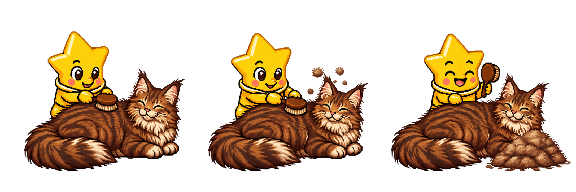
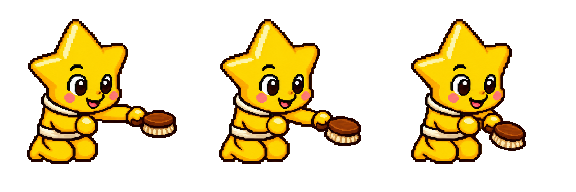
fix: クーンちゃん連作のアニメーションを調整

diff --git a/src/rendering/room.ts b/src/rendering/room.ts
@@ -626,6 +626,7 @@ function createSleeper(
   depthY: number,
   height: number,
   callbacks: RoomCallbacks,
+  breathing: "smooth" | "alternating" = "smooth",
 ): Sprite {
   texture.source.scaleMode = "nearest";
   const sleeper = new Sprite(texture);
@@ -643,7 +644,8 @@ function createSleeper(
   let elapsed = 0;
   app.ticker.add((ticker) => {
     elapsed += ticker.deltaMS;
-    const breath = Math.sin(elapsed / 620);
+    const breath =
+      breathing === "alternating" ? (Math.floor(elapsed / 1200) % 2 === 0 ? 0.75 : 1) : Math.sin(elapsed / 620);
     sleeper.scale.x = baseScaleX * (1 + breath * 0.018);
     sleeper.scale.y = baseScaleY * (1 + breath * 0.045);
     sleeper.y = position.y + breath * 0.8;
@@ -796,7 +798,15 @@ export async function renderRoom(
       : undefined;
   const character =
     visit.scene.characterPose === "sleep"
-      ? createSleeper(app, characterTexture, initialPosition, initialDepthY, presentation.sleeperHeight, callbacks)
+      ? createSleeper(
+          app,
+          characterTexture,
+          initialPosition,
+          initialDepthY,
+          presentation.sleeperHeight,
+          callbacks,
+          presentation.sleeperBreathing,
+        )
       : createWalker(
           app,
           characterTexture,

diff --git a/src/rendering/room-presentation.ts b/src/rendering/room-presentation.ts
@@ -70,6 +70,7 @@ export interface CharacterBubblePresentation {
 interface RoomPresentationCommon {
   sleeperAssetName: string;
   sleeperHeight: number;
+  sleeperBreathing?: "smooth" | "alternating";
   sleeperBase?: {
     assetName: string;
     height: number;
@@ -263,7 +264,17 @@ export function getRoomPresentation(visit: VisitView): RoomPresentation {
     return layeredPresentation(visit, {
       sleeperAssetName: "etokichi-sleep-pixel.webp",
       sleeperHeight: 42,
-      hiddenDepthDecorationIds: ["maineCoon"],
+      depthDecorationOverrides: {
+        maineCoon: {
+          type: "absolute",
+          x: 108,
+          y: 322,
+          depthY: 320,
+          width: 68,
+          height: 54,
+          observation: "クーンちゃんが、ブラシへ背中を預けて気持ちよさそうに目を細めている。",
+        },
+      },
     });
   }
 
@@ -271,6 +282,7 @@ export function getRoomPresentation(visit: VisitView): RoomPresentation {
     return layeredPresentation(visit, {
       sleeperAssetName: "etokichi-napping-on-maine-coon-pixel.webp",
       sleeperHeight: 60,
+      sleeperBreathing: "alternating",
       hiddenDepthDecorationIds: ["maineCoon"],
     });
   }

diff --git a/src/content/scenes.ts b/src/content/scenes.ts
@@ -191,11 +191,11 @@ export const SCENES: readonly SceneDefinition[] = [
     title: "クーンちゃんの朝ブラシ",
     description: "朝の光の中、クーンちゃんの長い毛をブラシでゆっくり整えている。",
     lines: [
-      "じっとしててね。あと背中をひと往復……わっ、まだ取れるキチ！",
-      "クーンちゃん、ぴかぴか！ この毛の山、もう一匹ぶんありそう。",
+      "じっとしててね。あと背中をひと往復……うん、さらさらになったキチ！",
+      "クーンちゃん、ぴかぴか！ 朝の光で、しま模様までつやつやだね。",
     ],
     details: [
-      "ブラシを通すたび、ふわふわの毛が小さな雲のように舞っている",
+      "ブラシが長い毛の流れに沿って、ゆっくり往復している",
       "クーンちゃんは目を細め、エトキチの手へ背中を預けている",
     ],
     characterPose: "busy",

diff --git a/tests/room-presentation.spec.ts b/tests/room-presentation.spec.ts
@@ -368,13 +368,26 @@ describe("room presentation", () => {
     });
   });
 
-  it("uses each combined Koon scene asset without rendering the room's default Koon twice", () => {
+  it("keeps Koon in a separate stationary layer during brushing", () => {
     expect(getRoomPresentation(visitFor("brushingMaineCoon"))).toMatchObject({
-      hiddenDepthDecorationIds: ["maineCoon"],
+      depthDecorationOverrides: {
+        maineCoon: {
+          type: "absolute",
+          x: 108,
+          y: 322,
+          depthY: 320,
+          width: 68,
+          height: 54,
+        },
+      },
     });
+  });
+
+  it("uses the combined sleeping asset without rendering the room's default Koon twice", () => {
     expect(getRoomPresentation(visitFor("nappingOnMaineCoon"))).toMatchObject({
       sleeperAssetName: "etokichi-napping-on-maine-coon-pixel.webp",
       sleeperHeight: 60,
+      sleeperBreathing: "alternating",
       hiddenDepthDecorationIds: ["maineCoon"],
     });
   });

diff --git a/tests/room-layout.spec.ts b/tests/room-layout.spec.ts
@@ -258,7 +258,7 @@ describe("room layout adoption and scene routes", () => {
 
   it("places both Koon scenes on the front rug without walking", () => {
     expect(resolveSceneRoute("brushingMaineCoon", DEFAULT_ROOM_LAYOUT)).toEqual([
-      expect.objectContaining({ x: 98, y: 320, action: true, actionScale: 1.4 }),
+      expect.objectContaining({ x: 70, y: 320, action: true }),
     ]);
     expect(resolveSceneRoute("nappingOnMaineCoon", DEFAULT_ROOM_LAYOUT)).toEqual([
       expect.objectContaining({ x: 98, y: 320 }),

diff --git a/src/rendering/room-layout.ts b/src/rendering/room-layout.ts
@@ -176,7 +176,7 @@ export const SCENE_ROUTES: Readonly<Record<SceneId, SceneRoute>> = {
   },
   brushingMaineCoon: {
     movement: "nonWalking",
-    waypoints: [{ destination: point(98, 320), pauseMs: 5000, action: true, actionScale: 1.4 }],
+    waypoints: [{ destination: point(70, 320), pauseMs: 5000, action: true }],
   },
   foundOldToy: {
     movement: "walking",

diff --git a/docs/room-layering.md b/docs/room-layering.md
@@ -76,7 +76,7 @@
 
 `タツヲ、くつろぎすぎ`では、同席者の位置を奥側の着席地点、描画深度を手前側の着席地点から別々に解決する。タツヲの寝姿は両地点へ追随して座面全体を覆い、家具を移動した場合も位置と前後関係を維持する。エトキチはソファー脇で困り顔を見せ、クーンは通常位置の絨毯から見守る。
 
-`クーンちゃんの朝ブラシ`と`クーンちゃん枕でお昼寝`では、エトキチとクーンを一体の素材で表現して通常のクーンを隠す。
+`クーンちゃんの朝ブラシ`では、静止したクーンとエトキチのブラシアニメーションを別レイヤーで表現する。`クーンちゃん枕でお昼寝`では、エトキチとクーンを一体の素材で表現して通常のクーンを隠す。
 
 ## 検証
 
